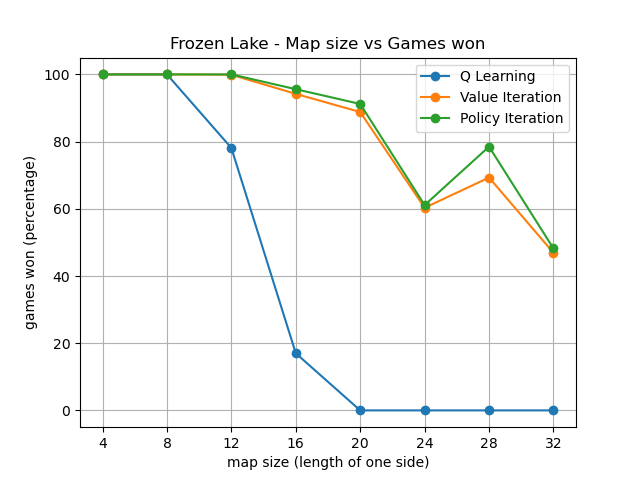
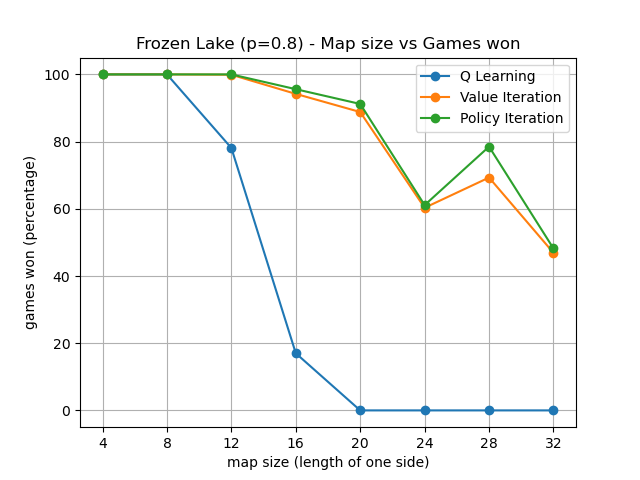
Plotted for map_p=0.9

Changed region(s): [[0.2188, 0.0625, 0.8125, 0.125]]

diff --git a/frozen_lake_analysis.py b/frozen_lake_analysis.py
@@ -17,7 +17,7 @@ def mapsize_vs_gameswon(map_p=0.8):
     df['Policy Iteration'] = 100 - policyit.groupby('map_size').min()['lost_games_perc']
 
     df.plot(marker='o')
-    plt.title('Frozen Lake - Map size vs Games won')
+    plt.title(f'Frozen Lake (p={map_p}) - Map size vs Games won')
     plt.ylabel('games won (percentage)')
     plt.xlabel('map size (length of one side)')
     plt.xticks(range(4, 36, 4))
@@ -46,18 +46,30 @@ def mapsize_vs_iterations(map_p=0.8):
     policyit_mapsize_iters = policyit.iloc[policyit_idx]['max_iters']
 
     df = pd.DataFrame(index=[4, 8, 12, 16, 20, 24, 28, 32])
-    df['Q Learning'] = qlearning_mapsize_iters.tolist()
     df['Value Iteration'] = valueit_mapsize_iters.tolist()
     df['Policy Iteration'] = policyit_mapsize_iters.tolist()
 
     df.plot(marker='o')
-    plt.title('Frozen Lake - Map size vs Iterations')
+    plt.title(f'Frozen Lake (p={map_p}) - Map size vs Iterations')
     plt.ylabel('train iterations')
     plt.xlabel('map size (length of one side)')
     plt.xticks(range(4, 36, 4))
     plt.grid()
     plt.legend()
     plt.savefig(f'plots/frozenlake_mapsize_vs_iterations_p{map_p}.png')
+    plt.clf()
+
+    df = pd.DataFrame(index=[4, 8, 12, 16, 20, 24, 28, 32])
+    df['Q Learning'] = qlearning_mapsize_iters.tolist()
+
+    df.plot(marker='o')
+    plt.title(f'Frozen Lake (p={map_p}) - Map size vs Iterations (Q Learning)')
+    plt.ylabel('train iterations')
+    plt.xlabel('map size (length of one side)')
+    plt.xticks(range(4, 36, 4))
+    plt.grid()
+    plt.legend()
+    plt.savefig(f'plots/frozenlake_mapsize_vs_iterations_qlearning_p{map_p}.png')
     plt.clf()
 
 
@@ -83,7 +95,7 @@ def mapsize_vs_nsteps(map_p=0.8):
     df['Policy Iteration'] = policyit_mapsize_nsteps.tolist()
 
     df.plot(marker='o')
-    plt.title('Frozen Lake - Map size vs Mean number of steps to goal')
+    plt.title(f'Frozen Lake (p={map_p}) - Map size vs Mean number of steps to goal')
     plt.ylabel('mean number of steps to reach goal')
     plt.xlabel('map size (length of one side)')
     plt.xticks(range(4, 36, 4))
@@ -115,7 +127,7 @@ def mapsize_vs_traintime(map_p=0.8):
     df['Policy Iteration'] = policyit_mapsize_time.tolist()
 
     df.plot(marker='o')
-    plt.title('Frozen Lake - Map size vs Time required to train')
+    plt.title(f'Frozen Lake (p={map_p}) - Map size vs Time required to train')
     plt.ylabel('time required to train (seconds)')
     plt.xlabel('map size (length of one side)')
     plt.xticks(range(4, 36, 4))
@@ -128,7 +140,12 @@ def mapsize_vs_traintime(map_p=0.8):
 
 
 if __name__ == '__main__':
-    mapsize_vs_gameswon()
-    mapsize_vs_iterations()
-    mapsize_vs_nsteps()
-    mapsize_vs_traintime()
+    mapsize_vs_gameswon(map_p=0.8)
+    mapsize_vs_iterations(map_p=0.8)
+    mapsize_vs_nsteps(map_p=0.8)
+    mapsize_vs_traintime(map_p=0.8)
+
+    mapsize_vs_gameswon(map_p=0.9)
+    mapsize_vs_iterations(map_p=0.9)
+    mapsize_vs_nsteps(map_p=0.9)
+    mapsize_vs_traintime(map_p=0.9)

diff --git a/frozen_lake.py b/frozen_lake.py
@@ -223,10 +223,13 @@ def analyze_policy_iteration(map_p=0.8):
 if __name__ == '__main__':
     #find_good_maps(map_p=0.95)
 
+    # analyze_qlearning(map_p=0.8)
     #analyze_qlearning(map_p=0.9)
 
     # analyze_value_iteration(map_p=0.8)
+    analyze_value_iteration(map_p=0.9)
 
-    analyze_policy_iteration(map_p=0.8)
+    # analyze_policy_iteration(map_p=0.8)
+    # analyze_policy_iteration(map_p=0.9)
 
     print()
